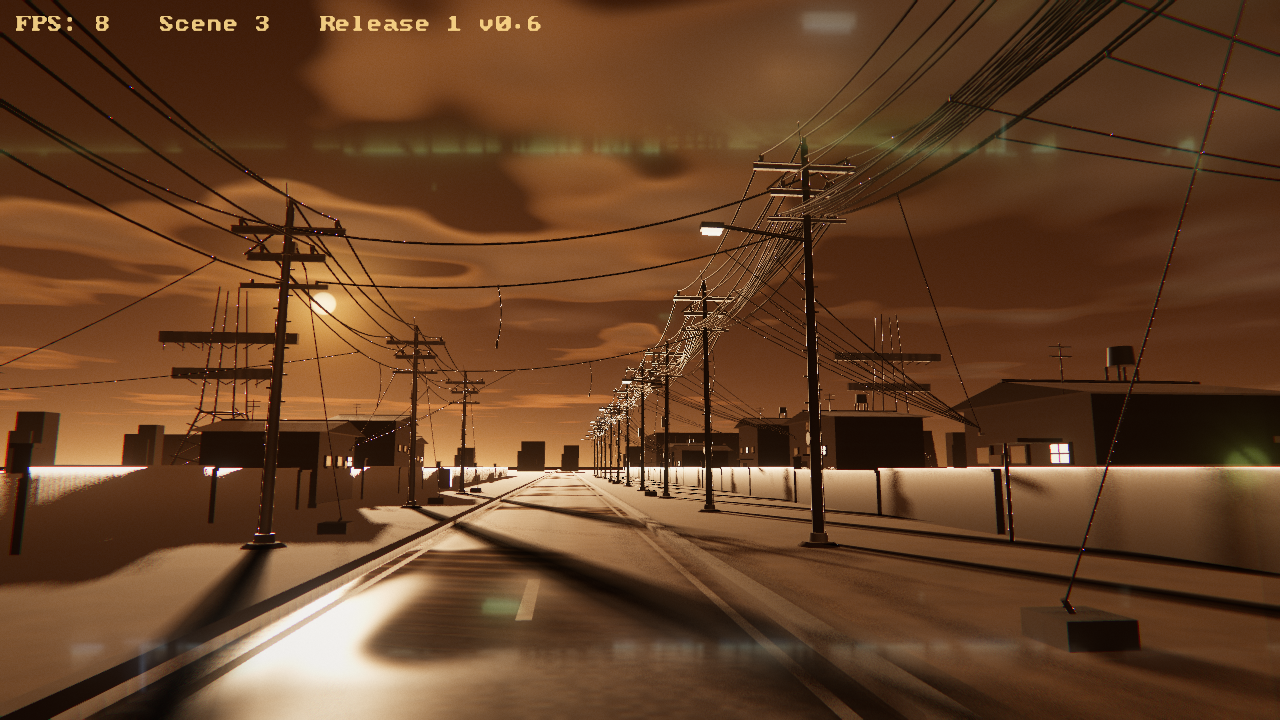
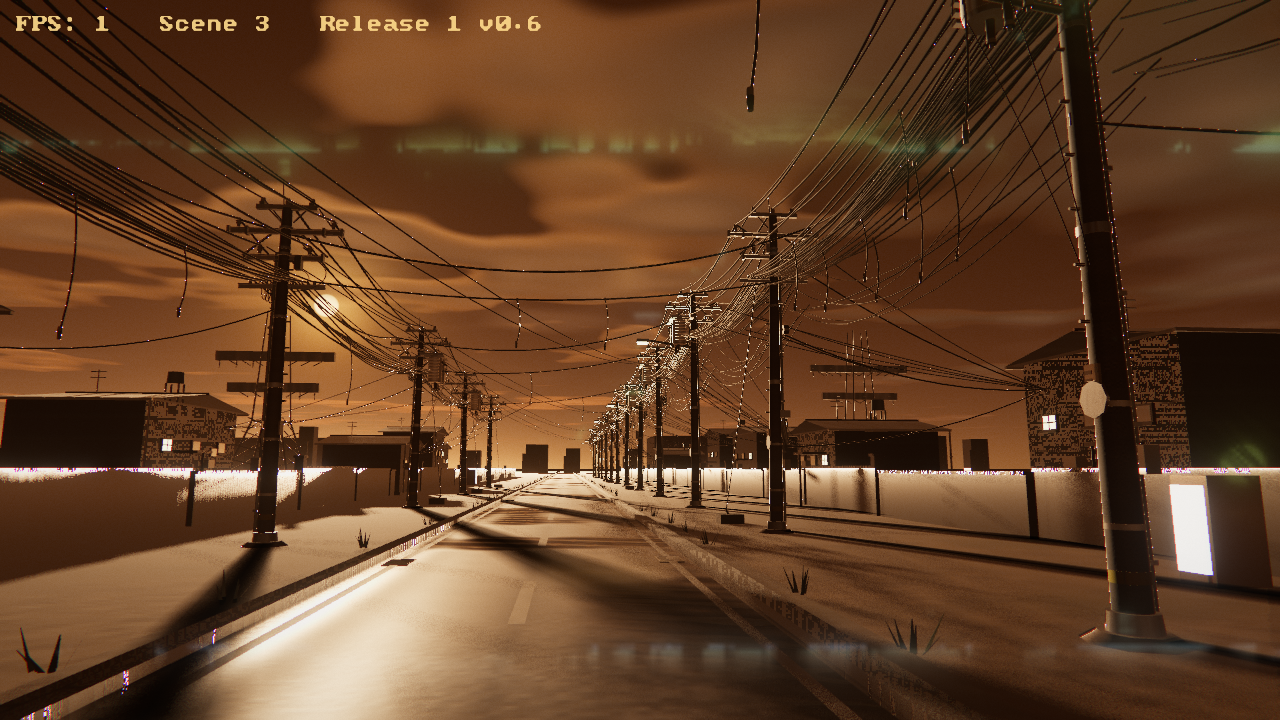
Refresh the committed scene 3 screenshots from the current renderer.
The docs/screenshots stills were captured before the pole corridor gained its
relief, gutters, manholes, storm drains and kerbside weeds. Re-rendered both
1280x720 frames (t=6 and t=24) on the current build and added the second still
to the README's scene 3 section.

🤖 Generated with Codebuff

diff --git a/README.md b/README.md
@@ -46,6 +46,10 @@ The lain scene:
 
 ![ElectroBench scene 3](docs/screenshots/lain_lines.png)
 
+Further down the run, past the kerbside weeds, gutters and storm drains:
+
+![ElectroBench scene 3, further down the corridor](docs/screenshots/lain_lines_t24.png)
+
 **In motion - but very slow**: the auto-dolly walking the corridor (four positions down the run): the cable web sweeping overhead pole after pole, slack coils swinging past, guy wires pulling into their anchor blocks, and the telecom bundles peeling off toward the eaves:
 
 ![Scene 3 in motion](docs/screenshots/lain_lines.gif)
